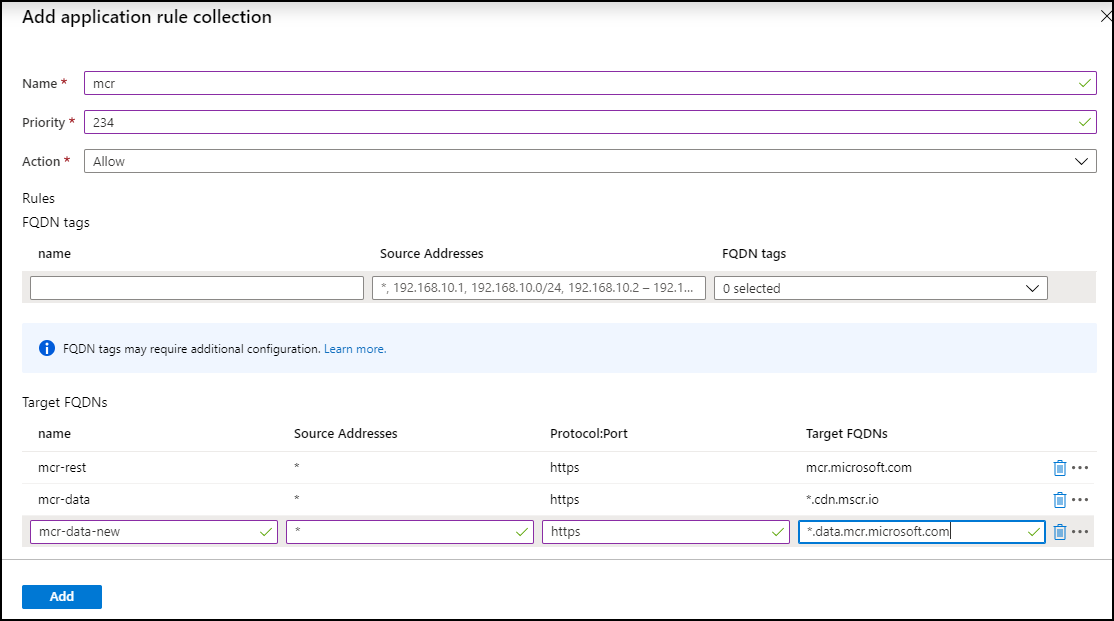
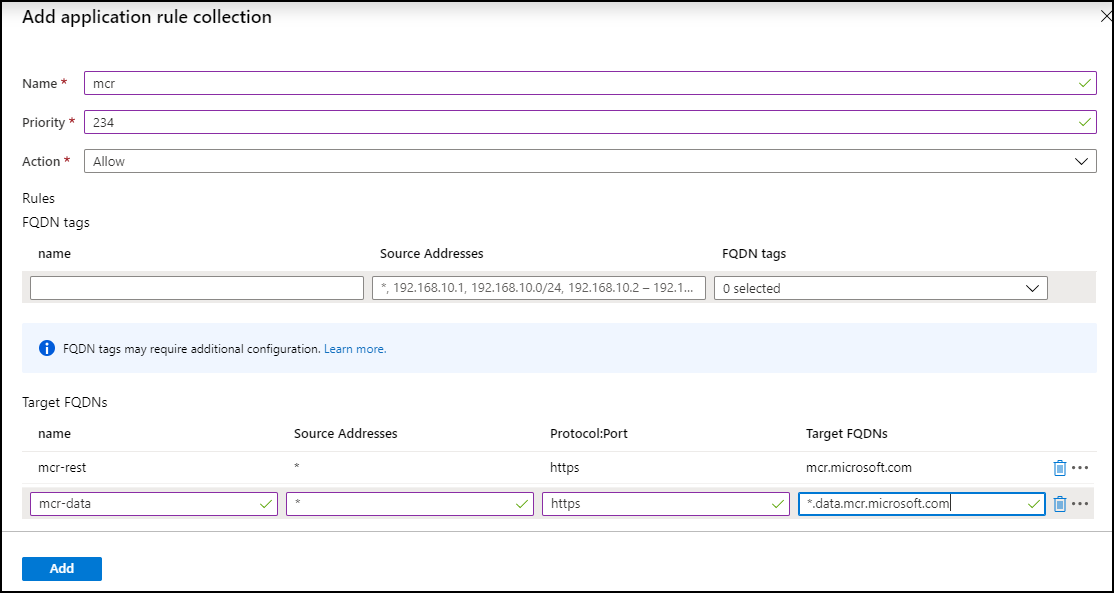
Remove mscr.io references

diff --git a/client-firewall-rules.md b/client-firewall-rules.md
@@ -1,168 +1,29 @@
 # Microsoft Container Registry (MCR) Client Firewall Rules Configuration
 
-MCR is an implementation of the [OCI Distribution Specification][oci-spec] which delivers [artifacts][oci-artifacts], such as container images. The Distribution Spec defines two endpoints:
+MCR is an implementation of the [OCI Distribution Specification][oci-spec] which delivers [artifacts][oci-artifacts], such as container images, helm charts and other assets distributed by Microsoft and Azure. The Distribution Spec defines two endpoints:
 
-- **REST Endpoint**: providing content discovery. This is the url users are most familiar with with pulling an image: `docker pull mcr.microsoft.com/windows/servercore:1909`. The REST endpoint is load balanced across multiple worldwide regions, providing consistent content addressable artifacts.
+- **REST Endpoint**: providing content discovery. This is the url users are most familiar with when pulling an image: `docker pull mcr.microsoft.com/windows/servercore:1909`. The REST endpoint is load balanced across multiple worldwide regions, providing consistent content addressable artifacts.
 - **Data Endpoint**: providing content delivery. As a registry client discovers the content required, it negotiates a set of content urls, pulling from the data endpoint. To provide reliable delivery of content, the data endpoint is backed by regionalized CDN endpoints.
-
-## Table of Contents
-
-- [Configuring Client Firewall Rules](#configuring-client-firewall-rules)
-- [Data Endpoint Change](#data-endpoint-change)
-- [Registry FQDN Endpoints](#registry-fqdn-endpoints)
-- [Testing the `*.cdn.mscr.io` Data Endpoint](#testing-the-cdnmscrio-data-endpoint)
-- [Testing the `*.data.mcr.microsoft.com` Data Endpoint](#testing-the-datamcrmicrosoftcom-data-endpoint)
-- [Q&A](#qa)
-- [Rollout Status](#rollout-status)
 
 ## Configuring Client Firewall Rules
 
-> ### **PROACTIVE DATA ENDPOINT SECURITY CHANGE**
->
-> **Rollouts have completed.**  See [Rollout Status](#rollout-status) for regional deployments.
->
-> To proactively address security risks and concerns, MCR will provide a consistent FQDN between the REST and data endpoints. Beginning **June 15, 2020** the data endpoints have changed from `*.cdn.mscr.io` to `*.data.mcr.microsoft.com`
-
-## Registry FQDN Endpoints
-
 To access MCR, the following FQDNs are required.
 
-| Purpose | Protocol | Target FQDN | Available |
+| Purpose | Protocol | Target FQDN |
 | - | - | - | - |
-| Registry Endpoint | https | `mcr.microsoft.com` | Now |
-| Data Endpoint | https | `*.cdn.mscr.io` | Now |
-| Data Endpoint | https | `*.data.mcr.microsoft.com` | Starting June  15, 2020 |
+| Registry Endpoint | https | `mcr.microsoft.com` |
+| Data Endpoint | https | `*.data.mcr.microsoft.com` |
 
-If you're updating this before the transition is complete, adding both data endpoints will assure a smooth transition. Once the deployment is complete, we'll update this page enabling the removal of `*.cdn.mscr.io`. We recommend keeping both endpoints for a few weeks post the change to account for any extra ordinary situation where we might have to rollback.
+> **Note:** MCR provides global coverage through Azure Traffic Manager for the registry REST endpoint, with regional CDNs for the data endpoints.
+> Over time, MCR regional endpoints _will change_ assuring the best performance for our customers. It is strongly recommended to avoid using region specific rules. The `*.data.mcr.microsoft.com` firewall rules will avoid disruption as we alter regions for performance & readability.
+
+Within Azure, the following configuration may be applied:
 
 ![Azure Application Rule](./media/mcr-client-firewall-rules.png)
-
-## Testing the `*.cdn.mscr.io` Data Endpoint
-
-To validate configurations pre June 15th, 2020, the following multi-arch images are available for testing.
-
-### Windows & Linux
-
-To test pulling an image:  
-`docker pull mcr.microsoft.com/mcr/hello-world`
-
-Visualizing the data urls:  
-`curl https://mcr.microsoft.com/v2/hello-world/blobs/sha256:fce289e99eb9bca977dae136fbe2a82b6b7d4c372474c9235adc1741675f587e`
-
-produces a url with `[oldRegionReference].cdn.mscr.io` :
-
-```html
-<a href="https://mcrwcus0.cdn.mscr.io/f439446e126348d29d8a8c39253da1ca-gqcvpppbjg//docker/registry/v2/blobs/...
-```
-
-## Testing the `*.data.mcr.microsoft.com` Data Endpoint
-
-To validate changes will work post June 15, 2020, the following images are available for testing today.
-
-**Note:** Separate repos for Windows and Linux are provided for verification:
-
-### Windows
-
-`docker pull mcr.microsoft.com/mcrlabscdnone/hello-world`
-
-Visualizing the data urls:  
-`curl  https://mcr.microsoft.com/v2/mcrlabscdnone/hello-world/blobs/sha256:fce289e99eb9bca977dae136fbe2a82b6b7d4c372474c9235adc1741675f587e`
-
-produces a url with `[region].data.mcr.microsoft.com` :
-
-```html
-<a href="https://westcentralus.data.mcr.microsoft.com/f439446e126348d29d8a8c39253da1ca-gqcvpppbjg//docker/registry/v2/blobs/...
-```
-
-### Linux
-
-`docker pull mcr.microsoft.com/mcrlabscdnone/hello-world-linux`
-
-Visualizing the data urls:  
-`curl  https://mcr.microsoft.com/v2/mcrlabscdnone/hello-world-linux/blobs/sha256:fce289e99eb9bca977dae136fbe2a82b6b7d4c372474c9235adc1741675f587e`
-
-produces a url with `[region].data.mcr.microsoft.com` :
-
-```html
-<a href="https://westcentralus.data.mcr.microsoft.com/f439446e126348d29d8a8c39253da1ca-gqcvpppbjg//docker/registry/v2/blobs/...
-```
-
-### Q&A
-
-- **Q: If both domains are secure, why are you making this change?**  
-  **A:** We've received feedback that having multiple root domains is confusing as it's not obvious that registries require multiple endpoints. To proactively address any potential security issues we are putting both endpoints under `microsoft.com` providing more trust and confidence that these are operated by Microsoft.
-
-- **Q: What should I do to prepare for this change?**  
-  **A:** If you require client firewall rules, follow the above guidance, adding both data endpoints to your outbound firewall rules. If you do not use outbound firewall rules, no change is necessary.
-- **Q: Are there any risks to adding both endpoints?**  
-  **A:** Both data endpoints are owned and maintained by Microsoft. Both are secure. Adding both domains eases the transition.
-- **Q: How can I test my firewall configurations before the change?"**  
-  **A:** See [Testing the `*.data.mcr.microsoft.com` Data Endpoint](#testing-the-datamcrmicrosoftcom-data-endpoint) above.
 
 ## Support
 
 To contact Microsoft Support: [azure.microsoft.com/support/create-ticket/](https://azure.microsoft.com/support/create-ticket/).
-
-## Rollout Status
-
-### June 25, 2020
-
-MCR Data Endpoint changes complete!
-
-Following [Azure Safe Deployment Practices](https://azure.microsoft.com/en-us/blog/advancing-safe-deployment-practices), all MCR regional endpoints have now been updated.
-
-> **Note:** mcr uses regional CDN to provide global coverage. You will not see every Azure Data Center listed.
-> Over time, MCR regional endpoints _will change_ assuring the best performance for our customers. It is strongly recommended to use `*.data.mcr.microsoft.com` for firewall rules to avoid disruption as we alter regions for performance & readability.
-
-| Date                  | Regions         | Data Endpoints                       | Status   |
-| -                     | -               | -                                    | -        |
-| 6/12/2020 - Friday    | EUAP Central US | N/A                                  | Complete |
-| 6/13/2020 - Saturday  | EUAP East US2   | N/A                                  | Complete |
-| 6/15/2020 - Monday    | West Central US | westcentralus.data.mcr.microsoft.com | Complete |
-| 6/18/2020 - Thursday  | West US         | westus.data.mcr.microsoft.com        | Complete |
-| 6/22/2020 - Monday    | East US         | eastus.data.mcr.microsoft.com        | Complete |
-|                       | North Europe    | northeurope.data.mcr.microsoft.com   | Complete |
-|                       | Southeast Asia  | southeastasia.data.mcr.microsoft.com | Complete |
-| 6/24/2020 - Wednesday | West US2        | westcentralus.data.mcr.microsoft.com | Complete |
-|                       | Central US      | centralus.data.mcr.microsoft.com     | Complete |
-|                       | East Asia       | eastasia.data.mcr.microsoft.com      | Complete |
-|                       | West Europe     | westeurope.data.mcr.microsoft.com    | Complete |
-
-### June 19, 2020
-
-MCR Data Endpoint changes rolling out.
-The following chart represents regional rollout, following [Azure Safe Deployment Practices](https://azure.microsoft.com/en-us/blog/advancing-safe-deployment-practices). For this impactful change, we will take a pause between regions to monitor customer feedback.
-
-| Date                  | Regions         | Data Endpoints                       | Status   |
-| -                     | -               | -                                    | -        |
-| 6/12/2020 - Friday    | EUAP Central US | N/A                                  | Complete |
-| 6/13/2020 - Saturday  | EUAP East US2   | N/A                                  | Complete |
-| 6/15/2020 - Monday    | West Central US | westcentralus.data.mcr.microsoft.com | Complete |
-| 6/18/2020 - Thursday  | West US         | westus.data.mcr.microsoft.com        | Complete |
-| 6/22/2020 - Monday    | East US         | eastus.data.mcr.microsoft.com        | Queued   |
-|                       | North Europe    | northeurope.data.mcr.microsoft.com   | Queued   |
-|                       | Southeast Asia  | southeastasia.data.mcr.microsoft.com | Queued   |
-| 6/24/2020 - Wednesday | West US2        | westcentralus.data.mcr.microsoft.com | Queued   |
-|                       | Central US      | centralus.data.mcr.microsoft.com     | Queued   |
-|                       | East Asia       | eastasia.data.mcr.microsoft.com      | Queued   |
-|                       | West Europe     | westeurope.data.mcr.microsoft.com    | Queued   |
-
-> **NOTE:** Regions are provided here for troubleshooting the endpoint change from `mscr.io`. Over time, MCR regional endpoints _will change_ assuring the best performance for our customers. It is strongly recommended to use `*.data.mcr.microsoft.com` for firewall rules to avoid disruption as we alter regions for performance & readability.
-
-### March 3rd, 2020 Update
-
-Regional rollout changes began, switching from `*.cdn.mscr.io` to `*.data.mcr.microsoft.com`.
-
-### March 9th, 2020 Update
-
-During the multi-region deployment, we discovered AKS node scaling and service updates could fail. To minimize the impact, we are rolling back the data endpoint change which completed Friday, March 13, 2020.
-
-### March 16th, 2020 Update
-
-As of March 13, 2020, all regions have been rolled back with data endpoints being served from `*.cdn.mscr.io`
-
-To minimize disruptions, allowing teams to focus on other matters, the MCR team has extended the change date to June 15, 2020.  
-*See [Q&A](#qa) above*
 
 More information on the [Microsoft Container Registry][mcr]
 
